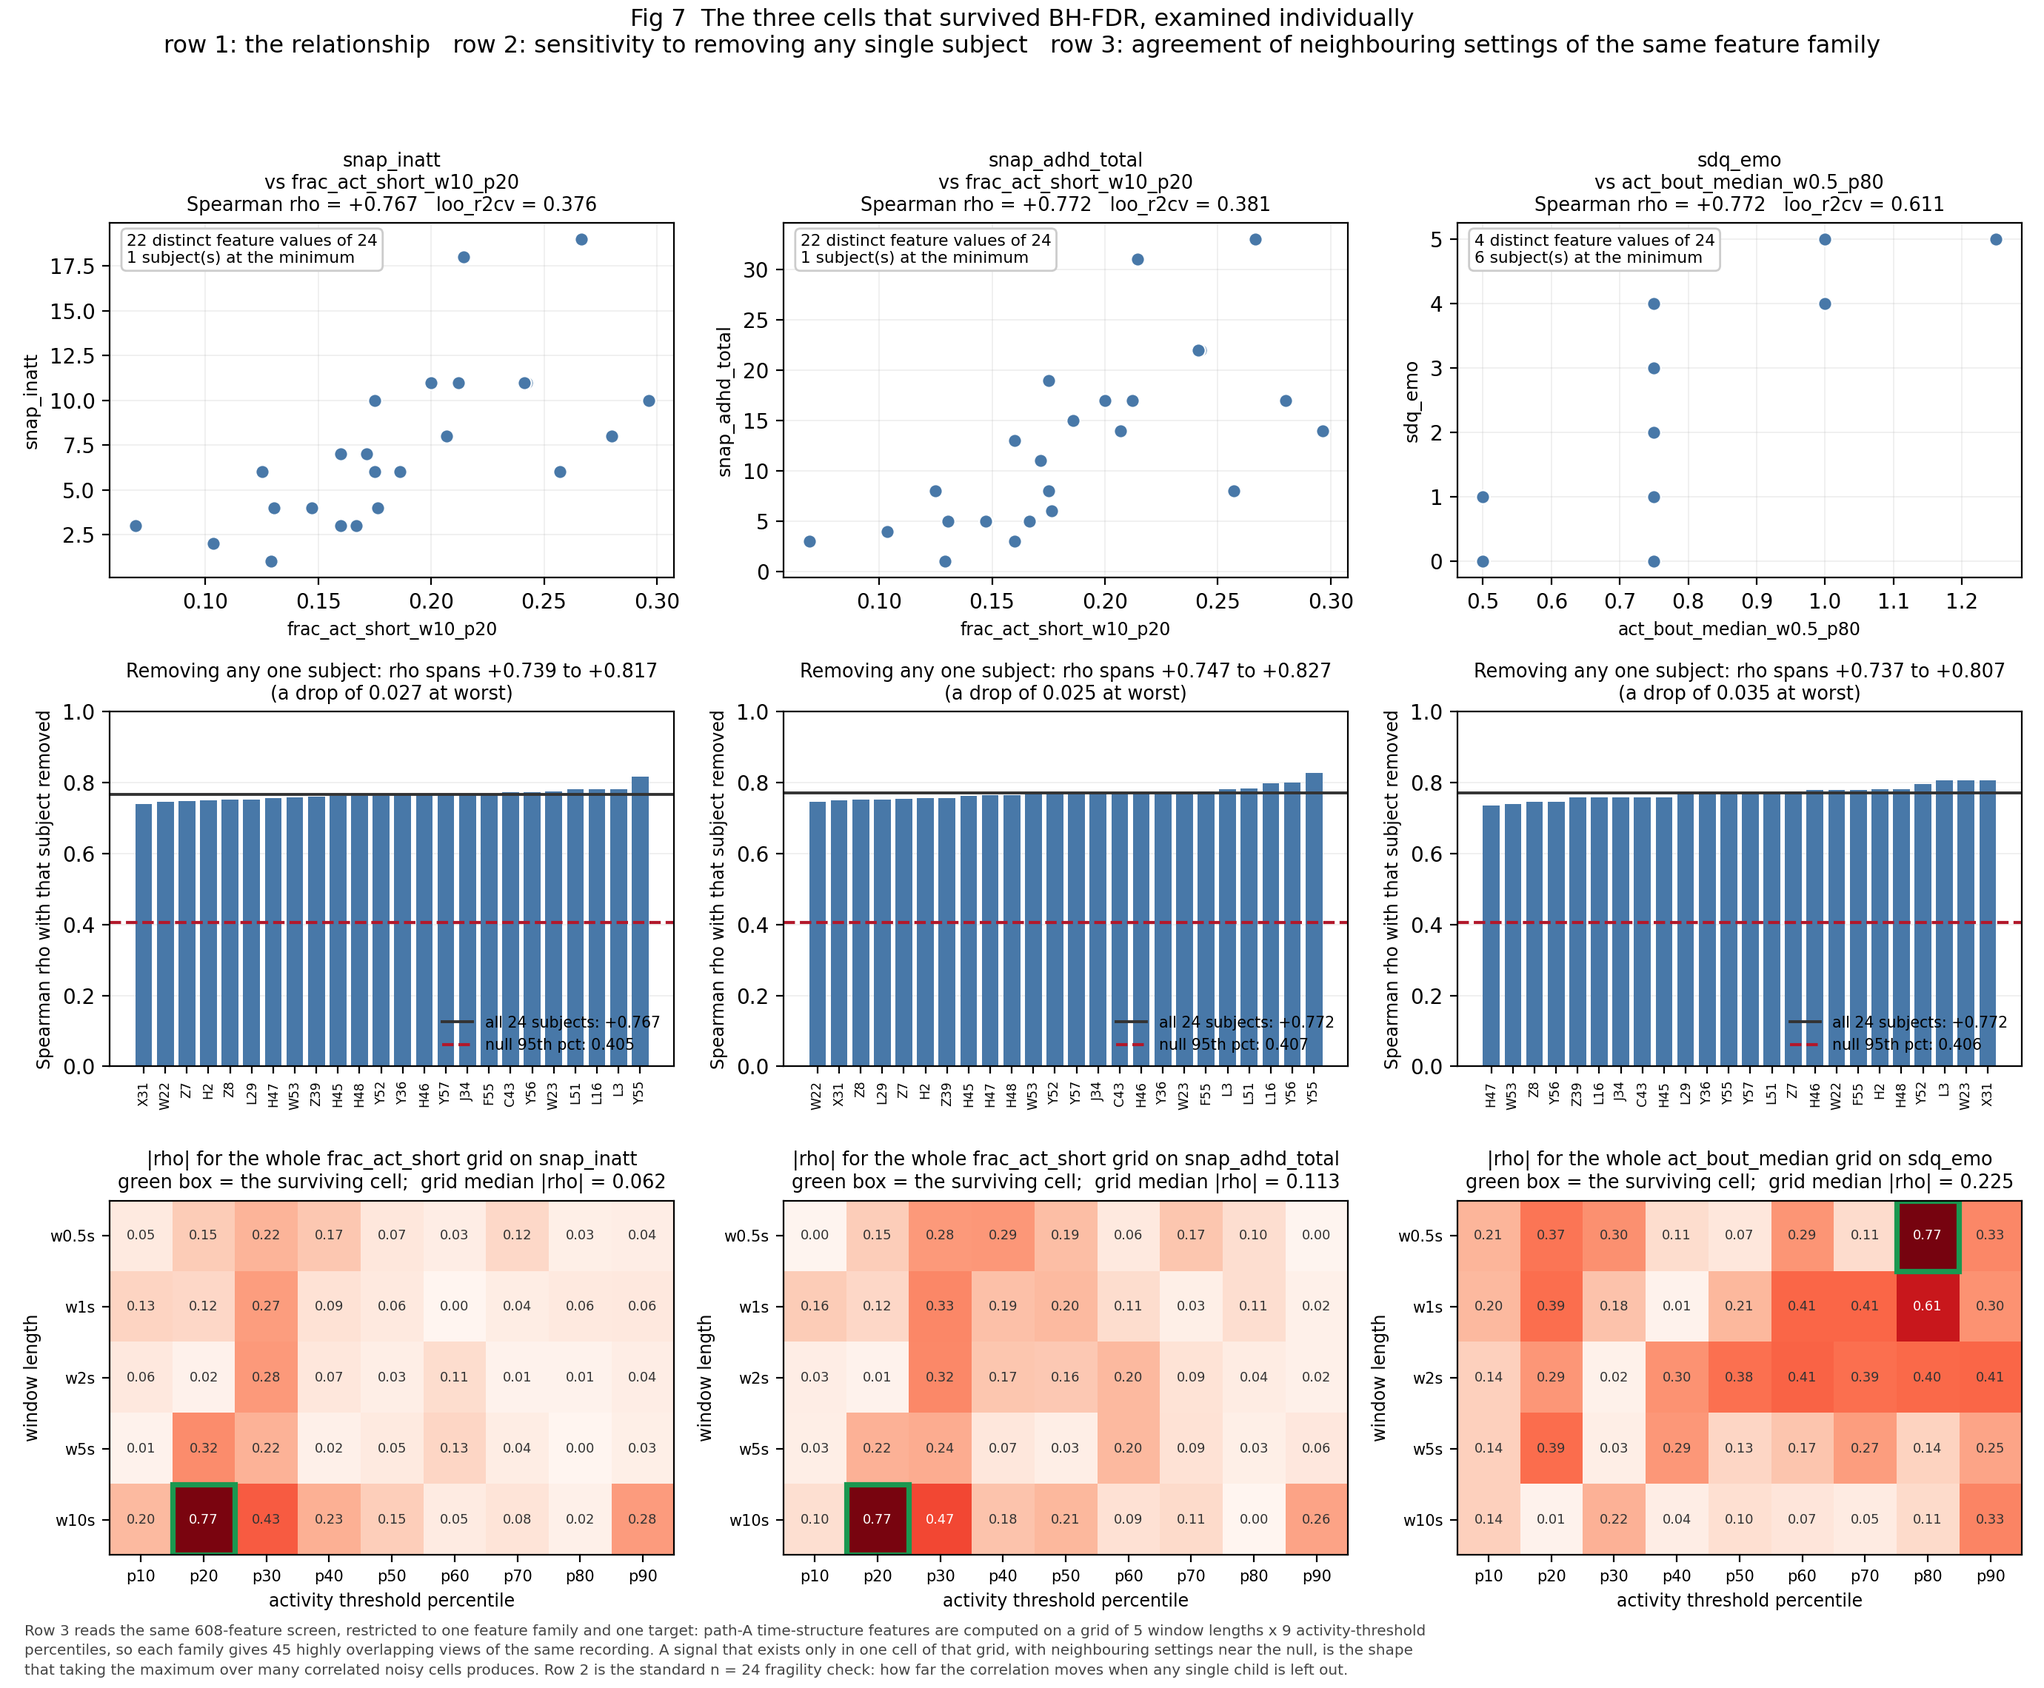
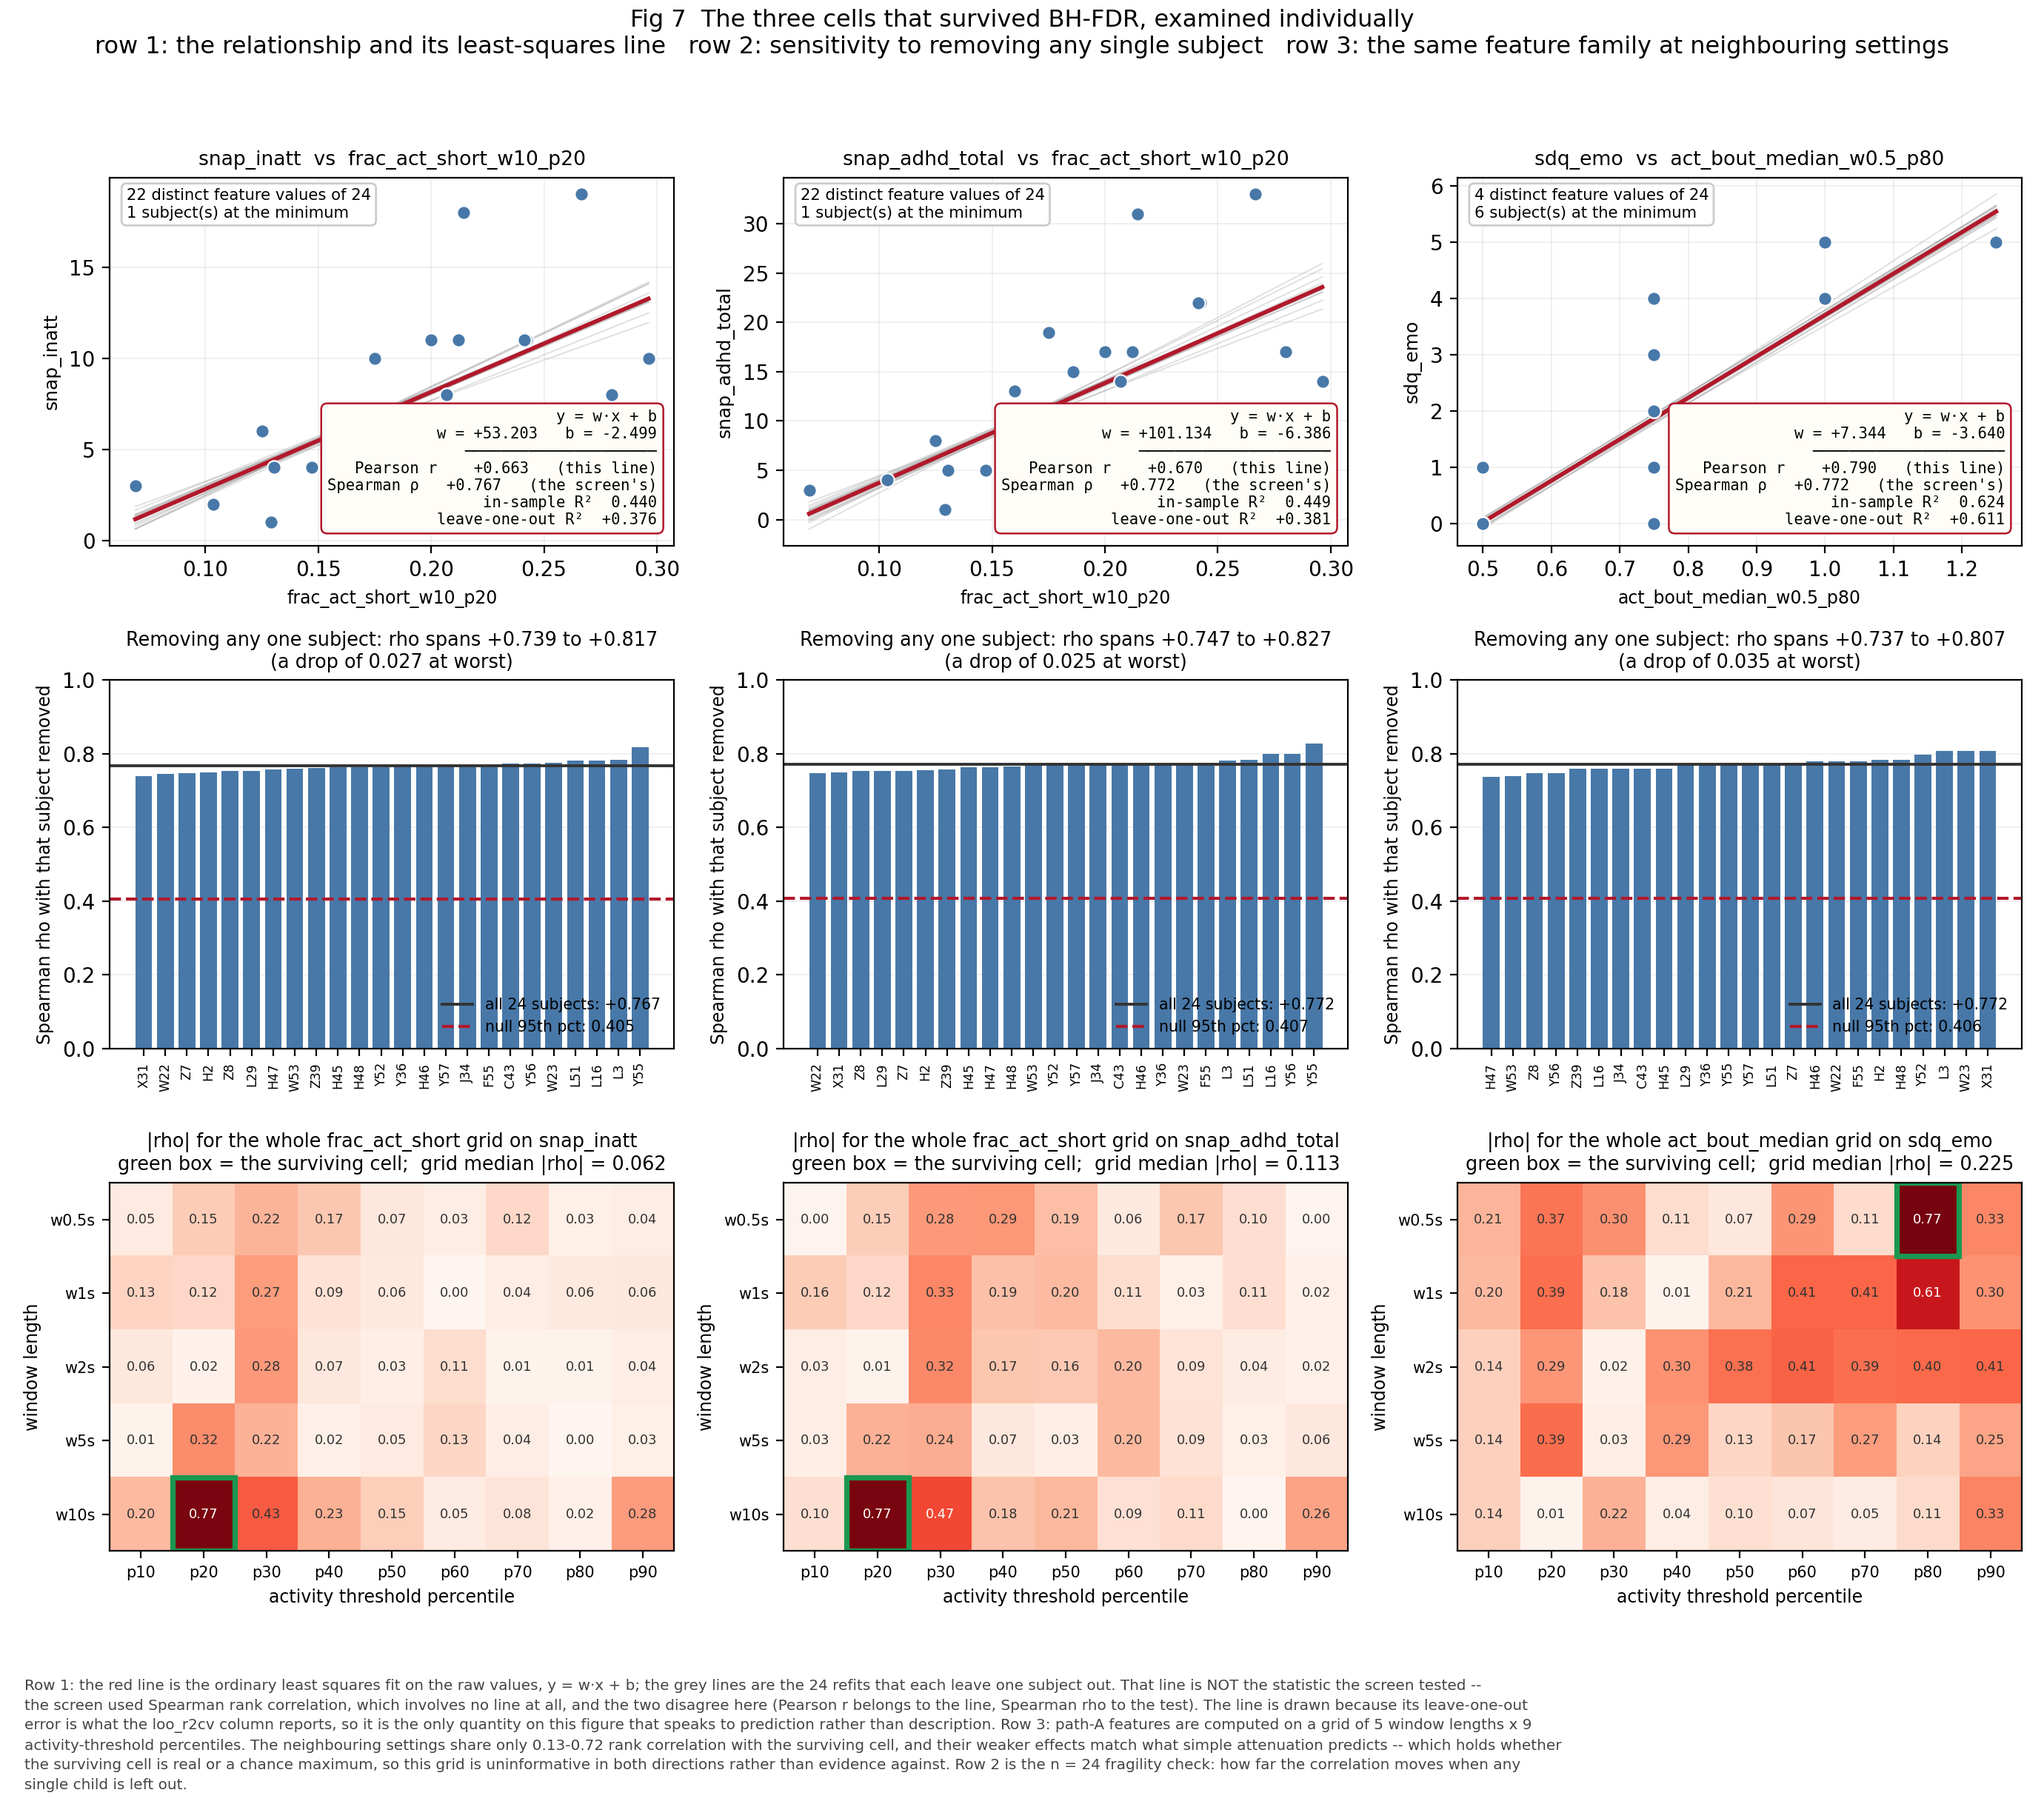
Fig 7 row 1: draw the least-squares line, and separate it from the rank statistic
Requested addition. Row 1 previously showed only the scatter with Spearman rho and
loo_r2cv in the title, which left loo_r2cv with no visual referent: that column comes
from an ordinary least squares fit (loo_simple_lr() in 44_univariate_screen.py) whose
line was never drawn.

Row 1 now draws y = w*x + b in red, the 24 leave-one-subject-out refits in grey, and
annotates the coefficients together with both correlation statistics so they are not
conflated. The distinction matters and is stated on the figure: the screen tested
Spearman rank correlation, which involves no line at all, while Pearson r is the one
that belongs to the drawn line. They disagree here.

  cell                                          w        b   Pearson  Spearman   R2    looR2
  snap_inatt x frac_act_short_w10_p20      +53.20   -2.50    +0.663    +0.767  0.440  +0.376
  snap_adhd_total x frac_act_short_w10_p20 +101.13  -6.39    +0.670    +0.772  0.449  +0.381
  sdq_emo x act_bout_median_w0.5_p80        +7.34   -3.64    +0.790    +0.772  0.624  +0.611

Across the observed feature range the first fit predicts a swing of +12.1 points on a
SNAP inattention scale whose observed range is 1 to 19. The in-sample to leave-one-out
gap (0.440 -> 0.376, 0.449 -> 0.381, 0.624 -> 0.611) is what fitting 24 points to a
two-parameter line costs.

Also fixed in the same pass: the figure's own footnote still carried the parameter-grid
reading that commit 0aa2c65 retracted, describing the neighbourhood as the shape a
[…]

diff --git a/analysis/61_univariate_analysis.py b/analysis/61_univariate_analysis.py
@@ -636,7 +636,7 @@ print("    snap_adhd_total is by construction the sum of the SNAP inattention an
 print("    hyperactivity items, so it contains snap_inatt; the two cells that share the")
 print("    feature frac_act_short_w10_p20 are one finding measured twice, not two.")
 
-fig, axes = plt.subplots(3, len(SURV), figsize=(4.6 * len(SURV), 11.4))
+fig, axes = plt.subplots(3, len(SURV), figsize=(4.6 * len(SURV), 12.2))
 for c, rec in enumerate(SURV):
     f, t = rec["feature"], rec["target"]
     xv = X[f].to_numpy(float)
@@ -644,20 +644,51 @@ for c, rec in enumerate(SURV):
     xr, yr_ = rankdata(xv), rankdata(yv)
     full = spearman(xr, yr_)
 
-    # (a) the relationship itself
+    # (a) the relationship itself, with the least-squares line drawn.
+    # Note which statistic is which. The Spearman rho reported by the screen is a RANK
+    # correlation and involves no line at all. The line below is the ordinary least
+    # squares fit on the raw values -- the same fit whose leave-one-out error becomes the
+    # loo_r2cv column (loo_simple_lr() in 44_univariate_screen.py). Drawing it gives
+    # loo_r2cv a visual referent it otherwise lacks, and lets the in-sample fit and the
+    # held-out performance be compared on the same picture.
     ax = axes[0, c]
+    w, b = np.polyfit(xv, yv, 1)
+    pear = float(np.corrcoef(xv, yv)[0, 1])
+    xs = np.linspace(xv.min(), xv.max(), 50)
+    for i in range(n):                                   # the 24 leave-one-out refits
+        wi, bi = np.polyfit(np.delete(xv, i), np.delete(yv, i), 1)
+        ax.plot(xs, wi * xs + bi, color="#999999", lw=0.7, alpha=0.30, zorder=1)
+    ax.plot(xs, w * xs + b, color="#b2182b", lw=2.0, zorder=2)
     ax.scatter(xv, yv, s=44, color="#4878a8", edgecolor="white", linewidth=0.8, zorder=3)
     ax.set_xlabel(f, fontsize=8.5)
     ax.set_ylabel(t, fontsize=9)
     nzero = int((xv == xv.min()).sum())
-    ax.set_title(f"{t}\nvs {f}\nSpearman rho = {full:+.3f}   loo_r2cv = {rec['loo_r2cv']:.3f}",
-                 fontsize=9.2)
+    ax.set_title(f"{t}  vs  {f}", fontsize=9.6)
     ax.text(0.03, 0.97, f"{len(np.unique(xv))} distinct feature values of {n}\n"
                         f"{nzero} subject(s) at the minimum",
-            transform=ax.transAxes, va="top", fontsize=7.8,
+            transform=ax.transAxes, va="top", fontsize=7.6,
             bbox=dict(boxstyle="round,pad=0.32", fc="white", ec="#cccccc"))
+    ax.text(0.97, 0.05,
+            f"y = w·x + b\n"
+            f"w = {w:+.3f}   b = {b:+.3f}\n"
+            f"─────────────────────\n"
+            f"Pearson r    {pear:+.3f}   (this line)\n"
+            f"Spearman ρ   {full:+.3f}   (the screen's)\n"
+            f"in-sample R²  {pear ** 2:.3f}\n"
+            f"leave-one-out R²  {rec['loo_r2cv']:+.3f}",
+            transform=ax.transAxes, ha="right", va="bottom", fontsize=7.4, family="monospace",
+            bbox=dict(boxstyle="round,pad=0.4", fc="#fffdf7", ec="#b2182b", lw=0.9))
     ax.grid(alpha=0.22, lw=0.6)
     ax.set_axisbelow(True)
+    print(f"\n  {t} x {f}  -- least-squares line on the raw values")
+    print(f"    y = {w:+.4f} * x {b:+.4f}")
+    print(f"    over the observed range of x ({xv.min():.4g} to {xv.max():.4g}) the line")
+    print(f"      predicts a change of {w * (xv.max() - xv.min()):+.2f} points on {t},")
+    print(f"      whose own observed range is {yv.min():.0f} to {yv.max():.0f}")
+    print(f"    Pearson r {pear:+.4f} (belongs to this line)  vs  Spearman rho {full:+.4f}"
+          f" (the statistic the screen tested)")
+    print(f"    in-sample R^2 {pear ** 2:.4f}  vs  leave-one-out R^2 {rec['loo_r2cv']:+.4f}"
+          f"   -- the gap is what fitting 24 points to a 2-parameter line costs")
 
     # (b) drop-one-subject jackknife
     ax = axes[1, c]
@@ -758,14 +789,17 @@ for c, rec in enumerate(SURV):
         ax.axis("off")
 
 fig.suptitle("Fig 7  The three cells that survived BH-FDR, examined individually\n"
-             "row 1: the relationship   row 2: sensitivity to removing any single subject   "
-             "row 3: agreement of neighbouring settings of the same feature family",
+             "row 1: the relationship and its least-squares line   row 2: sensitivity to removing any single subject   "
+             "row 3: the same feature family at neighbouring settings",
              fontsize=11.5, y=0.995)
-fig.tight_layout(rect=[0, 0.032, 1, 0.965])
-fig.text(0.012, 0.008,
-         "Row 3 reads the same 608-feature screen, restricted to one feature family and one target: path-A time-structure features are computed on a grid of 5 window lengths x 9 activity-threshold\n"
-         "percentiles, so each family gives 45 highly overlapping views of the same recording. A signal that exists only in one cell of that grid, with neighbouring settings near the null, is the shape\n"
-         "that taking the maximum over many correlated noisy cells produces. Row 2 is the standard n = 24 fragility check: how far the correlation moves when any single child is left out.",
+fig.tight_layout(rect=[0, 0.098, 1, 0.968])
+fig.text(0.012, 0.010,
+         "Row 1: the red line is the ordinary least squares fit on the raw values, y = w·x + b; the grey lines are the 24 refits that each leave one subject out. That line is NOT the statistic the screen tested --\n"
+         "the screen used Spearman rank correlation, which involves no line at all, and the two disagree here (Pearson r belongs to the line, Spearman rho to the test). The line is drawn because its leave-one-out\n"
+         "error is what the loo_r2cv column reports, so it is the only quantity on this figure that speaks to prediction rather than description. Row 3: path-A features are computed on a grid of 5 window lengths x 9\n"
+         "activity-threshold percentiles. The neighbouring settings share only 0.13-0.72 rank correlation with the surviving cell, and their weaker effects match what simple attenuation predicts -- which holds whether\n"
+         "the surviving cell is real or a chance maximum, so this grid is uninformative in both directions rather than evidence against. Row 2 is the n = 24 fragility check: how far the correlation moves when any\n"
+         "single child is left out.",
          fontsize=7.2, color="#444444", linespacing=1.5)
 fig.savefig(FIGDIR / "fig07_surviving_cells.png", dpi=200)
 plt.close(fig)

diff --git a/outputs/tables/61_univariate.md b/outputs/tables/61_univariate.md
@@ -3,7 +3,7 @@
 **Do not hand-edit.** To update, re-run the producing script and let it overwrite this file.
 
 - Producing script: `analysis/61_univariate_analysis.py`
-- Repository HEAD when this snapshot was generated: `bd710eed4c5cae448ad45b5ad83024694440b492`
+- Repository HEAD when this snapshot was generated: `0aa2c65f17bc8e7bb2302d1bfac34386994030cd`
 - Reproduce with: `.venv/bin/python analysis/61_univariate_analysis.py`
 - Permutation nulls rebuilt here use 100,000 draws per target, seed 20260730. The screen
   itself used seed 20260717, so permutation p-values agree only to Monte-Carlo error.
@@ -252,6 +252,14 @@
     hyperactivity items, so it contains snap_inatt; the two cells that share the
     feature frac_act_short_w10_p20 are one finding measured twice, not two.
 
+  snap_inatt x frac_act_short_w10_p20  -- least-squares line on the raw values
+    y = +53.2030 * x -2.4990
+    over the observed range of x (0.06897 to 0.2963) the line
+      predicts a change of +12.09 points on snap_inatt,
+      whose own observed range is 1 to 19
+    Pearson r +0.6634 (belongs to this line)  vs  Spearman rho +0.7666 (the statistic the screen tested)
+    in-sample R^2 0.4402  vs  leave-one-out R^2 +0.3760   -- the gap is what fitting 24 points to a 2-parameter line costs
+
   snap_inatt x frac_act_short_w10_p20
     full-sample rho +0.767;  drop-one range +0.739 .. +0.817
     subjects whose removal pushes rho below the null 95th percentile (0.405): none
@@ -276,6 +284,14 @@
         is evidence for NEITHER. The grid neighbourhood turns out to be
         uninformative about real-versus-chance in both directions.
 
+  snap_adhd_total x frac_act_short_w10_p20  -- least-squares line on the raw values
+    y = +101.1343 * x -6.3863
+    over the observed range of x (0.06897 to 0.2963) the line
+      predicts a change of +22.99 points on snap_adhd_total,
+      whose own observed range is 1 to 33
+    Pearson r +0.6698 (belongs to this line)  vs  Spearman rho +0.7718 (the statistic the screen tested)
+    in-sample R^2 0.4486  vs  leave-one-out R^2 +0.3811   -- the gap is what fitting 24 points to a 2-parameter line costs
+
   snap_adhd_total x frac_act_short_w10_p20
     full-sample rho +0.772;  drop-one range +0.747 .. +0.827
     subjects whose removal pushes rho below the null 95th percentile (0.407): none
@@ -299,6 +315,14 @@
         0.77 is a real association or a chance one, so the orderly drop-off
         is evidence for NEITHER. The grid neighbourhood turns out to be
         uninformative about real-versus-chance in both directions.
+
+  sdq_emo x act_bout_median_w0.5_p80  -- least-squares line on the raw values
+    y = +7.3441 * x -3.6399
+    over the observed range of x (0.5 to 1.25) the line
+      predicts a change of +5.51 points on sdq_emo,
+      whose own observed range is 0 to 5
+    Pearson r +0.7902 (belongs to this line)  vs  Spearman rho +0.7720 (the statistic the screen tested)
+    in-sample R^2 0.6244  vs  leave-one-out R^2 +0.6115   -- the gap is what fitting 24 points to a 2-parameter line costs
 
   sdq_emo x act_bout_median_w0.5_p80
     full-sample rho +0.772;  drop-one range +0.737 .. +0.807

diff --git a/outputs/RESULTS_ANALYSIS.md b/outputs/RESULTS_ANALYSIS.md
@@ -117,6 +117,24 @@ Each survivor rests exactly on the permutation floor of 1e-5, meaning 100,000 sh
 matched it and its true p is smaller than 1e-5 by an amount these permutations cannot
 resolve. Figures: `fig05`, `fig07`.
 
+`fig07` row 1 draws each relationship with its ordinary least squares line, `y = w·x + b`,
+plus the 24 refits that each leave one subject out. That line is **not** the statistic the
+screen tested — the screen used Spearman rank correlation, which involves no line — but it is
+the fit whose leave-one-out error becomes the `loo_r2cv` column, so it is the only thing on
+that figure that speaks to prediction rather than description. The two statistics disagree
+here, which is worth seeing rather than glossing:
+
+| Cell | `w` | `b` | Pearson r (the line) | Spearman rho (the test) | in-sample R² | leave-one-out R² |
+|---|---|---|---|---|---|---|
+| `snap_inatt` × `frac_act_short_w10_p20` | +53.20 | −2.50 | +0.663 | +0.767 | 0.440 | +0.376 |
+| `snap_adhd_total` × `frac_act_short_w10_p20` | +101.13 | −6.39 | +0.670 | +0.772 | 0.449 | +0.381 |
+| `sdq_emo` × `act_bout_median_w0.5_p80` | +7.34 | −3.64 | +0.790 | +0.772 | 0.624 | +0.611 |
+
+In physical terms the first line says: across the observed range of that feature (0.069 to
+0.296), the fit predicts a swing of +12.1 points on a SNAP inattention scale whose observed
+range is 1 to 19. The gap between the in-sample and leave-one-out R² columns — 0.440 → 0.376,
+0.449 → 0.381, 0.624 → 0.611 — is what fitting 24 points to a two-parameter line costs.
+
 Four properties of these three, measured rather than assumed:
 
 - **They are robust to any single child.** Removing any one of the 24 subjects moves rho by
